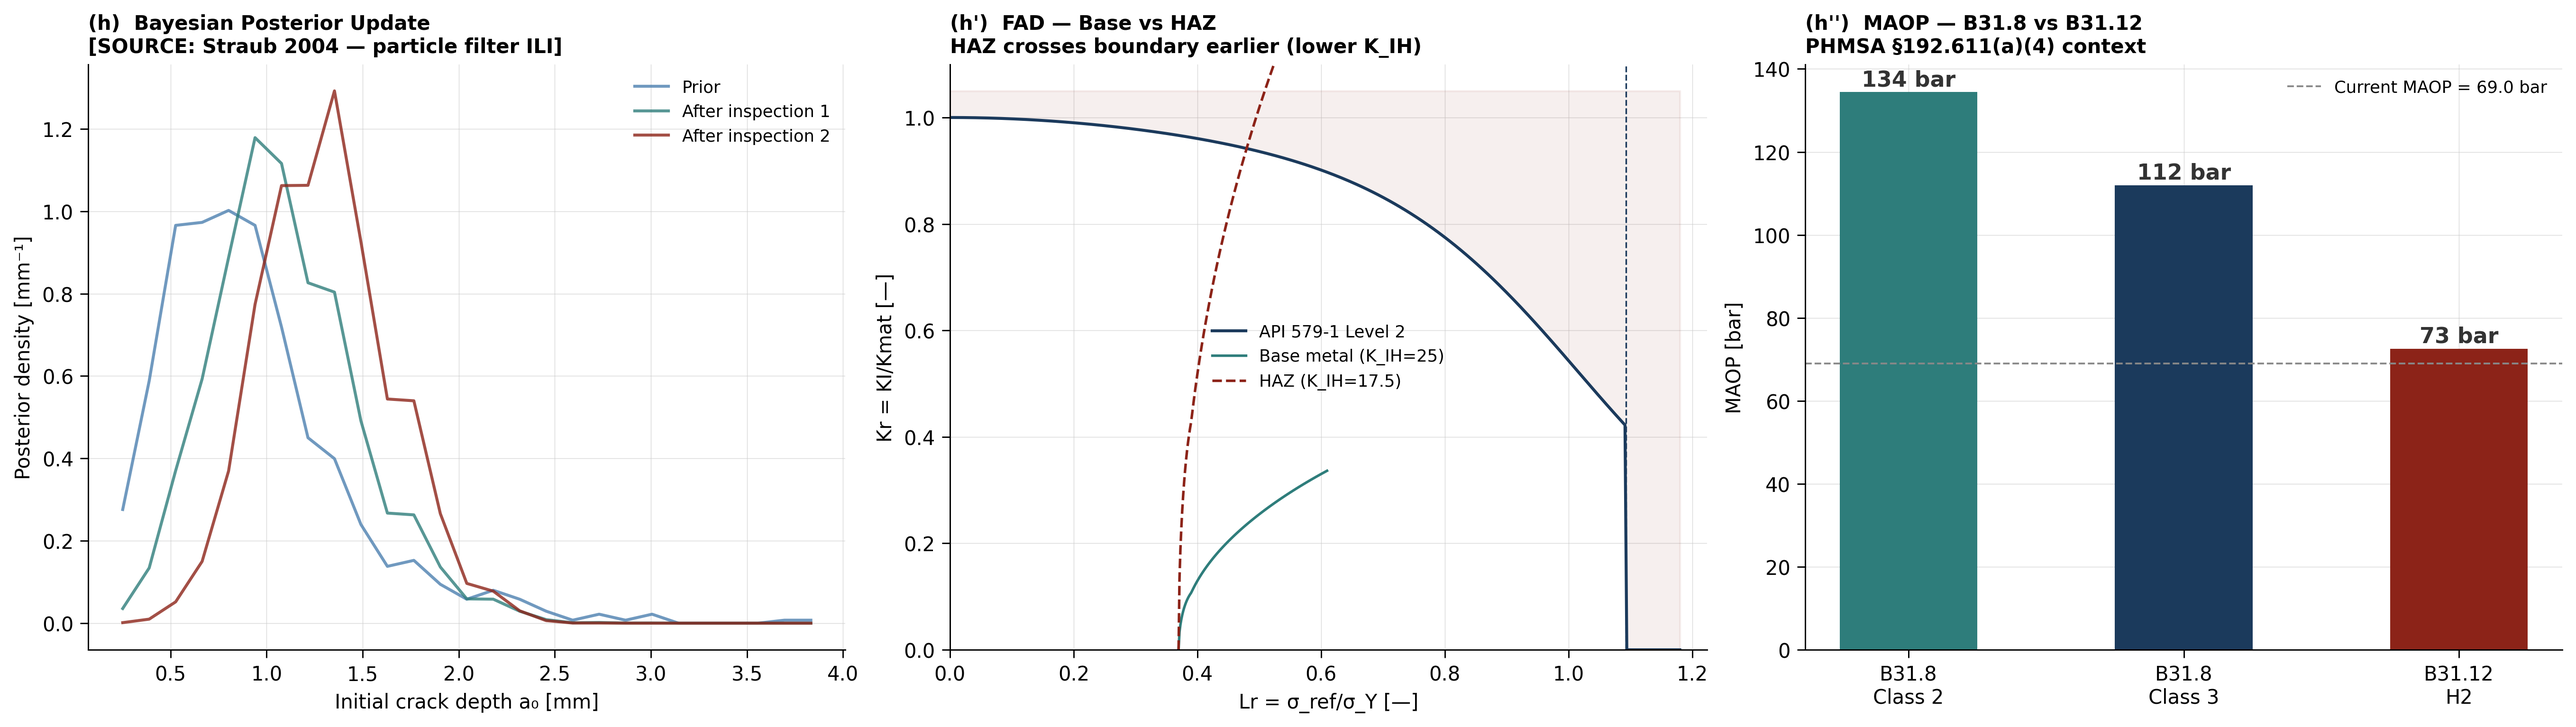
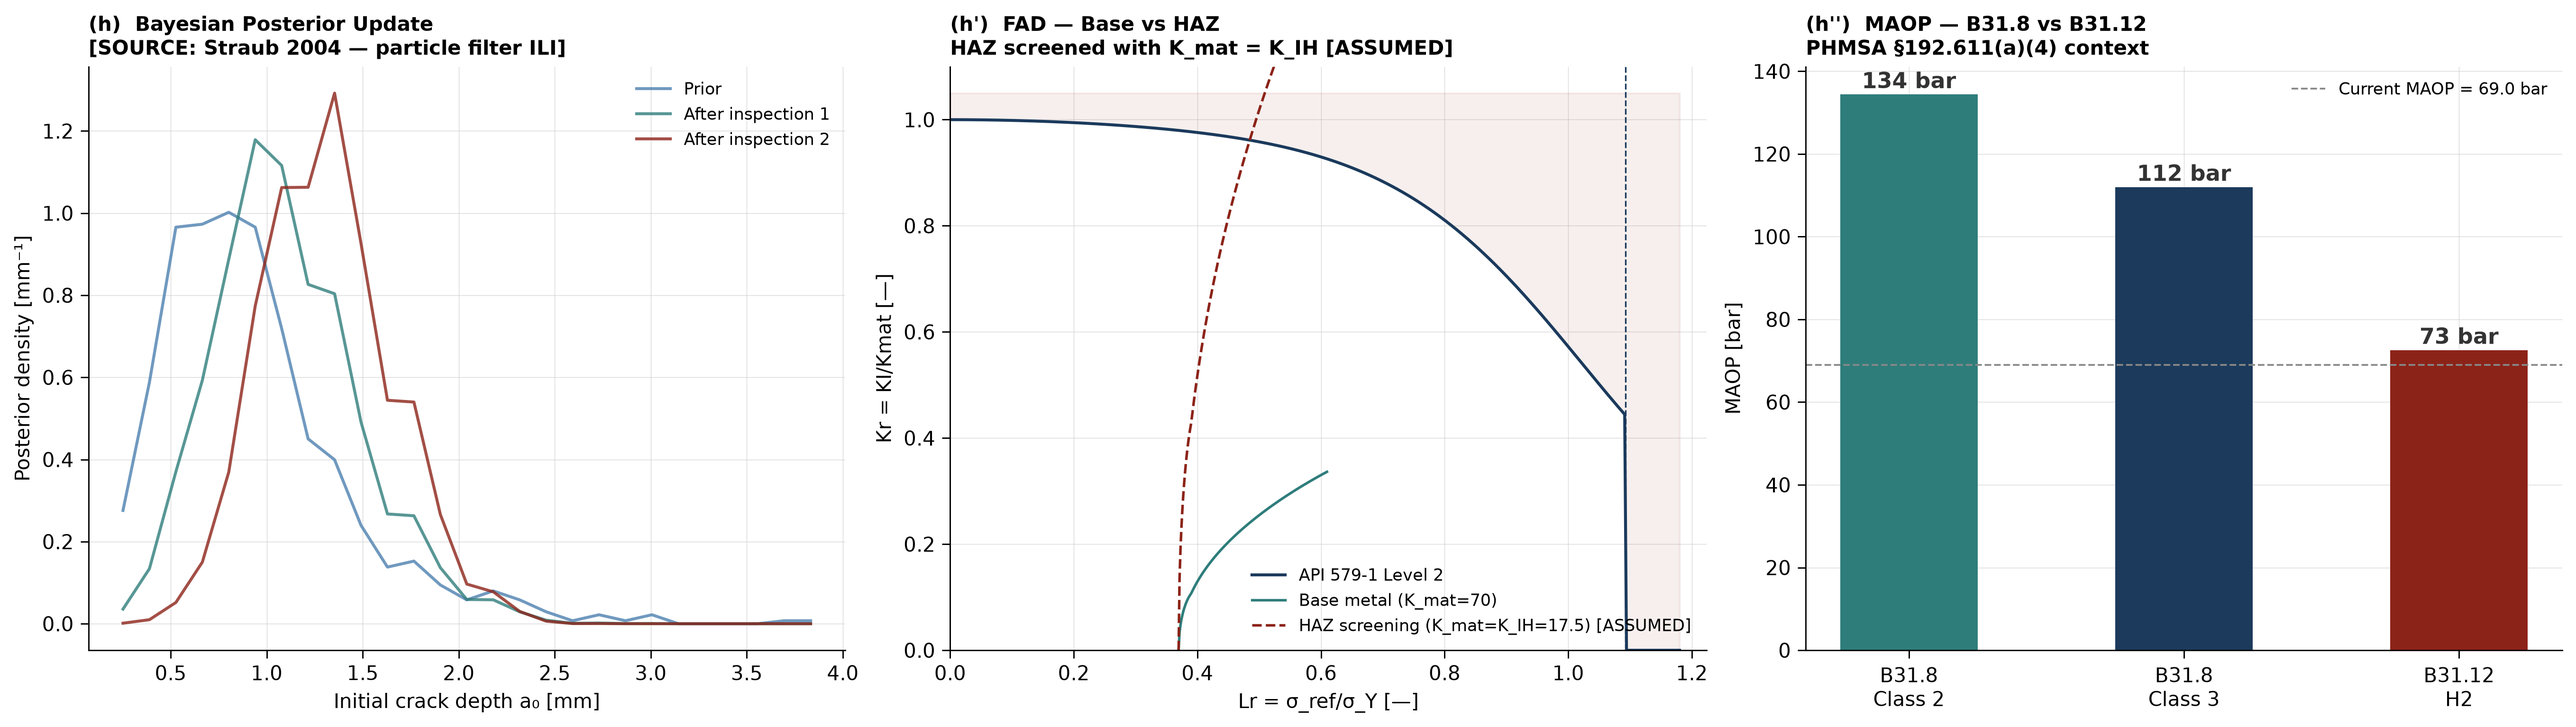
fix(fad): use the API 579-1 Level 2 curve
The code used a hybrid: the BS 7910 Option 1 prefactor with the API exponent.
Kr(Lr=1): 0.5433 -> 0.5723. Panel (h') regenerated. Its legend said K_IH=25 for a curve computed with K_mat=70; labels now state the value used.

diff --git a/visualization/plot_all.py b/visualization/plot_all.py
@@ -353,11 +353,11 @@ def plot_bayesian_and_fad(bayesian_result, out="assets/figures/panel_h_bayes_fad
     wl_arr=np.linspace(0,5e-3,100)
     traj_b=fad_trajectory(wl_arr)
     traj_h=fad_trajectory(wl_arr, Kmat=17.5)
-    ax2.plot(traj_b['Lr'],traj_b['Kr'],color=COLOR_TEAL,linewidth=1.3,label='Base metal (K_IH=25)')
-    ax2.plot(traj_h['Lr'],traj_h['Kr'],color=COLOR_RED,linewidth=1.3,linestyle='--',label='HAZ (K_IH=17.5)')
+    ax2.plot(traj_b['Lr'],traj_b['Kr'],color=COLOR_TEAL,linewidth=1.3,label='Base metal (K_mat=70)')
+    ax2.plot(traj_h['Lr'],traj_h['Kr'],color=COLOR_RED,linewidth=1.3,linestyle='--',label='HAZ screening (K_mat=K_IH=17.5) [ASSUMED]')
     ax2.set_xlim(0,Lr_max*1.12); ax2.set_ylim(0,1.10)
     ax2.set_xlabel('Lr = σ_ref/σ_Y [—]',fontsize=10); ax2.set_ylabel('Kr = KI/Kmat [—]',fontsize=10)
-    ax2.set_title("(h')  FAD — Base vs HAZ\nHAZ crosses boundary earlier (lower K_IH)",fontsize=10,fontweight='bold',loc='left')
+    ax2.set_title("(h')  FAD — Base vs HAZ\nHAZ screened with K_mat = K_IH [ASSUMED]",fontsize=10,fontweight='bold',loc='left')
     ax2.legend(fontsize=8.5,frameon=False)
 
     # MAOP comparison

diff --git a/tests/test_week10.py b/tests/test_week10.py
@@ -400,6 +400,18 @@ class TestExtendedPhysicsV2:
         s = train_surrogate(mc["params"], mc["wall_loss"], n_estimators=80, max_depth=4)
         assert s["r2_test"] > -1.0  # at least not anti-predictive
 
+    def test_reassessment_cap_is_seven_years(self):
+        from src.inspection_optimizer import optimal_inspection_interval
+        no_risk = lambda t: 0.0  # cost optimum then sits at T_max
+        assert optimal_inspection_interval(no_risk, T_max_yr=6.0)['reassess_cap_compliant']
+        assert not optimal_inspection_interval(no_risk, T_max_yr=8.0)['reassess_cap_compliant']
+
+    def test_fad_level2_hand_value(self):
+        # Hand calculation at Lr = 1: (1 - 0.14) * (0.3 + 0.7 * exp(-0.65)) = 0.86 * 0.66543 = 0.5723
+        from src.fad_assessment import fad_curve
+        import numpy as np
+        assert abs(fad_curve(np.array([1.0]))[0] - 0.5723) < 1e-3
+
     def test_fad_api579_shape(self):
         from src.fad_assessment import fad_curve, Lr_max_value
         import numpy as np

diff --git a/src/fad_assessment.py b/src/fad_assessment.py
@@ -1,4 +1,7 @@
-"""API 579-1 Level 2 FAD + B31.12 vs B31.8 code comparison."""
+"""API 579-1 Level 2 FAD + B31.12 vs B31.8 code comparison.
+
+FAD curve as quoted from API 579-1/ASME FFS-1 in [SOURCE: Bourga et al. 2016, PVP2016-63876].
+"""
 import numpy as np
 from src.constants import (PIPE_OD, PIPE_WT, STEEL_SMYS, STEEL_UTS, KMAT,
                             P_OP_BAR, F_B31_8_CL2, F_B31_8_CL3, HDF_B31_12,
@@ -13,7 +16,7 @@ def fad_curve(Lr, Lr_max=None):
     if Lr_max is None: Lr_max = Lr_max_value()
     Lr = np.asarray(Lr, dtype=float); Kr = np.zeros_like(Lr)
     v = Lr <= Lr_max
-    Kr[v] = ((1+0.5*Lr[v]**2)**(-0.5) * (0.3+0.7*np.exp(-0.65*Lr[v]**6)))
+    Kr[v] = (1-0.14*Lr[v]**2) * (0.3+0.7*np.exp(-0.65*Lr[v]**6))
     return Kr
 
 def assessment_point(a_mm: float, P_bar: float = P_OP_BAR,

diff --git a/README.md b/README.md
@@ -108,7 +108,7 @@ $$ \left(\tfrac{da}{dt}\right)_{\!\text{real}} \;=\; \left(\tfrac{da}{dt}\right)
 ### API 579-1 Level 2 FAD curve
 **[SOURCE: API 579-1/ASME FFS-1 Level 2]**
 
-$$ K_r(L_r) \;=\; \bigl(1 + \tfrac{1}{2} L_r^{2}\bigr)^{-1/2}\, \bigl(\,0.3 + 0.7\,e^{-0.65\,L_r^{6}}\bigr) $$
+$$ K_r(L_r) \;=\; \bigl(1 - 0.14\,L_r^{2}\bigr)\, \bigl(\,0.3 + 0.7\,e^{-0.65\,L_r^{6}}\bigr) $$
 
 ### H₂ blending — K_IH degradation
 **[SOURCE: Cui et al. 2024]**
